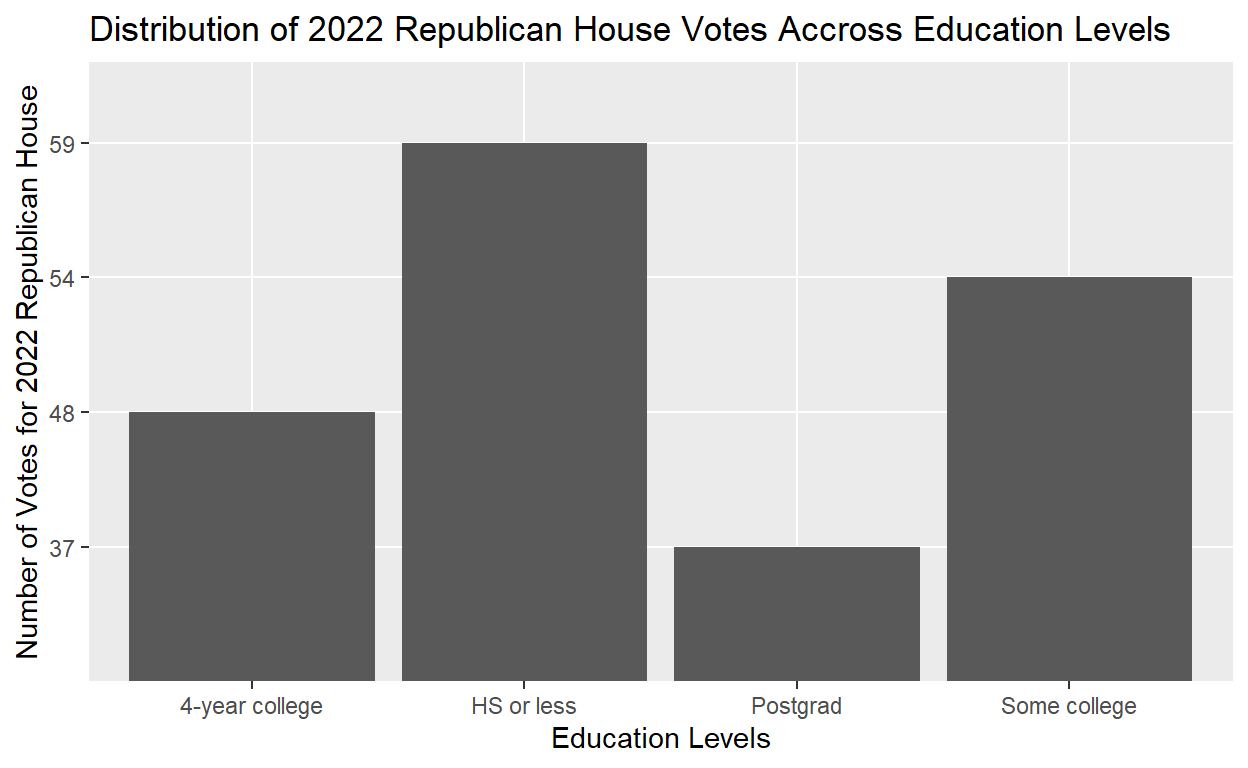
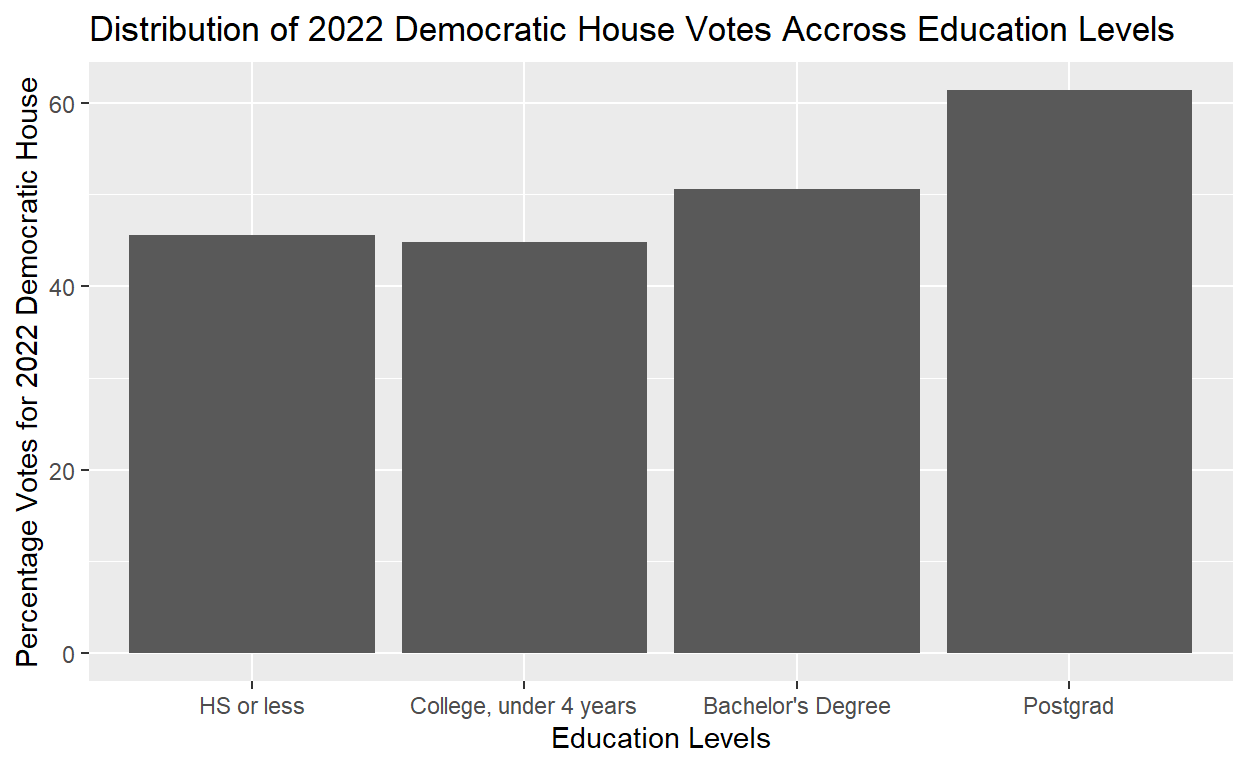
project 1

diff --git a/index.html b/index.html
@@ -1476,14 +1476,18 @@
 </div>
 
 <div class="d-article">
-<h2 id="project-thoughts">Project thoughts</h2>
-<p>I am interested in exploring data related to recent elections and the how the voting trends have changed. I would specifically like to look into how different factors effect voting behaviors. An example of this would be how education plays a role in voting.</p>
-<p>How has education affected voting trends and patterns in recent elections? Based on data from recent elections, it seems that as education gets higher, people tend to vote for the Democratic Party as opposed to the Republican Party. To measure this, we will be analyzing different levels of education in the categories of “HS or less”, “Some College”, “4 year College”, and “Postgrad”. Education has our explanatory variables. Our outcome variable is the percentage towards that party/candidate. We will be looking at how education changes the official results in terms of percentage for Democratic and Republican presidential candidates from past years. The observed pattern from the data points to higher education changing percentages to be higher for Democratic candidates.</p>
-<h2 id="democratic-house-vote">2022 Democratic House Vote</h2>
+<h2 id="introduction">Introduction</h2>
+<p>In this project I have aimed to explore how education has affected voting patterns. The question I worked to answer is: As education increases, are individuals more or less in support of the democratic party. To uncover this, I looked at different demographics and how they affected voting results in the 2022 Democratic House race. My main hypothesis was that as education increases, support for the Democratic Party will increase.</p>
+<p>This research question is important because demographics play a very prominent role in the way that individuals vote and affiliate with different political parties. This question works to uncover a core driver of political behavior: how individual’s backgrounds shape the way that they vote. Looking specifically at education helps explain larger patterns in elections in the way that education can affect how people access and process information. Furthermore, the way we access information has a large impact on our beliefs and party/candidate preferences as well.</p>
+<h2 id="data-section">Data Section</h2>
+<p>To measure the support for the Democratic party among different education levels, I will be taking the data and creating four different conditions. I will categorize each individual into “HS or less”, “College, under 4 years”, “Bachelor’s degree”, and “Postgrad”. Education is the explanatory variable, as each category/level will yield a different outcome of percentage in support for the 2022 Democratic House. The outcome variable is the percentage votes per each education level, reflecting support for the 2022 Democratic House.</p>
+<p>An outcome of higher percentages for each education increase would prove my hypothesis to be correct, while an outcome showing variability or decrease of percentages for each education increase would prove my hypothesis to be incorrect.</p>
 <div class="layout-chunk" data-layout="l-body">
 <div class="sourceCode">
 <pre class="sourceCode r"><code class="sourceCode r"><span><span class='kw'><a href='https://rdrr.io/r/base/library.html'>library</a></span><span class='op'>(</span><span class='va'><a href='https://tidyverse.tidyverse.org'>tidyverse</a></span><span class='op'>)</span></span>
-<span><span class='kw'><a href='https://rdrr.io/r/base/library.html'>library</a></span><span class='op'>(</span><span class='va'><a href='https://dplyr.tidyverse.org'>dplyr</a></span><span class='op'>)</span></span></code></pre>
+<span><span class='kw'><a href='https://rdrr.io/r/base/library.html'>library</a></span><span class='op'>(</span><span class='va'><a href='https://dplyr.tidyverse.org'>dplyr</a></span><span class='op'>)</span></span>
+<span><span class='kw'><a href='https://rdrr.io/r/base/library.html'>library</a></span><span class='op'>(</span><span class='va'><a href='https://readr.tidyverse.org'>readr</a></span><span class='op'>)</span></span>
+<span><span class='kw'><a href='https://rdrr.io/r/base/library.html'>library</a></span><span class='op'>(</span><span class='va'><a href='https://broom.tidymodels.org/'>broom</a></span><span class='op'>)</span></span></code></pre>
 </div>
 </div>
 <div class="layout-chunk" data-layout="l-body">
@@ -1521,8 +1525,43 @@
 10 103519 Postgrad               TRUE        
 # ℹ 8,584 more rows</code></pre>
 </div>
-<p>Here I did some data cleaning to create a clea table that shows different education levels and if they voted for the democratic party or not.</p>
-<h2 id="distribution-of-2022-democratic-house-votes-accross-education-levels">Distribution of 2022 Democratic House Votes Accross Education Levels</h2>
+<p>Here I did some data cleaning to create table that shows individuals under the different education levels, and if they voted in support of the 2022 Democratic House or not. If they voted in support of the Democratic Party they are labeled “TRUE”, if they did not then they are labeled “FALSE”.</p>
+<div class="layout-chunk" data-layout="l-body">
+<div class="sourceCode">
+<pre class="sourceCode r"><code class="sourceCode r"><span><span class='va'>edu_vote</span> <span class='op'>&lt;-</span> <span class='va'>vote_data</span> <span class='op'>|&gt;</span></span>
+<span>  <span class='fu'><a href='https://dplyr.tidyverse.org/reference/group_by.html'>group_by</a></span><span class='op'>(</span><span class='va'>education</span><span class='op'>)</span> <span class='op'>|&gt;</span></span>
+<span>  <span class='fu'><a href='https://dplyr.tidyverse.org/reference/summarise.html'>summarize</a></span><span class='op'>(</span>percentage_dem <span class='op'>=</span> <span class='fu'><a href='https://rdrr.io/r/base/mean.html'>mean</a></span><span class='op'>(</span><span class='va'>congvote_dem</span><span class='op'>)</span> <span class='op'>*</span> <span class='fl'>100</span><span class='op'>)</span> </span>
+<span><span class='fu'>knitr</span><span class='fu'>::</span><span class='fu'><a href='https://rdrr.io/pkg/knitr/man/kable.html'>kable</a></span><span class='op'>(</span><span class='va'>edu_vote</span>, digits <span class='op'>=</span> <span class='fl'>2</span><span class='op'>)</span></span></code></pre>
+</div>
+<table>
+<thead>
+<tr class="header">
+<th style="text-align: left;">education</th>
+<th style="text-align: right;">percentage_dem</th>
+</tr>
+</thead>
+<tbody>
+<tr class="odd">
+<td style="text-align: left;">HS or less</td>
+<td style="text-align: right;">45.54</td>
+</tr>
+<tr class="even">
+<td style="text-align: left;">College, under 4 years</td>
+<td style="text-align: right;">44.87</td>
+</tr>
+<tr class="odd">
+<td style="text-align: left;">Bachelor’s Degree</td>
+<td style="text-align: right;">50.56</td>
+</tr>
+<tr class="even">
+<td style="text-align: left;">Postgrad</td>
+<td style="text-align: right;">61.39</td>
+</tr>
+</tbody>
+</table>
+</div>
+<p>Here I created a clean table showing the average percentage of support for the 2022 Democratic House for each education level.</p>
+<h2 id="results-section">Results Section</h2>
 <div class="layout-chunk" data-layout="l-body">
 <div class="sourceCode">
 <pre class="sourceCode r"><code class="sourceCode r"><span><span class='va'>twentytwo_dem_house</span> <span class='op'>&lt;-</span> <span class='va'>vote_data</span> <span class='op'>|&gt;</span></span>
@@ -1531,43 +1570,80 @@
 <span><span class='fu'><a href='https://ggplot2.tidyverse.org/reference/ggplot.html'>ggplot</a></span><span class='op'>(</span>mapping <span class='op'>=</span> <span class='fu'><a href='https://ggplot2.tidyverse.org/reference/aes.html'>aes</a></span><span class='op'>(</span>x <span class='op'>=</span> <span class='va'>education</span>, y <span class='op'>=</span>  <span class='va'>dem_pct</span><span class='op'>)</span><span class='op'>)</span> <span class='op'>+</span></span>
 <span>  <span class='fu'><a href='https://ggplot2.tidyverse.org/reference/geom_bar.html'>geom_col</a></span><span class='op'>(</span><span class='op'>)</span> <span class='op'>+</span></span>
 <span>  <span class='fu'><a href='https://ggplot2.tidyverse.org/reference/labs.html'>labs</a></span><span class='op'>(</span>x <span class='op'>=</span> <span class='st'>"Education Levels"</span>, y <span class='op'>=</span> <span class='st'>"Percentage Votes for 2022 Democratic House"</span>, title <span class='op'>=</span> <span class='st'>"Distribution of 2022 Democratic House Votes Accross Education Levels"</span><span class='op'>)</span></span>
-<span><span class='fu'><a href='https://rdrr.io/r/base/print.html'>print</a></span><span class='op'>(</span><span class='va'>twentytwo_dem_house</span><span class='op'>)</span></span></code></pre>
+<span><span class='va'>twentytwo_dem_house</span></span></code></pre>
 </div>
-<p><img src="index_files/figure-html5/unnamed-chunk-3-1.png" alt="" width="624" /></p>
+<p><img src="index_files/figure-html5/unnamed-chunk-4-1.png" alt="" width="624" /></p>
 </div>
-<p>Here I plotted the distribution of the percentage that each education level voted democrat in the House Election. The distribution shows that as education gets higher, it seems that there is generally stronger support for the democratic party because the percentage of votes is increasing. However, it seems that college under four years has a slightly lower support for the democratic party than highnschool or less.</p>
-<h2 id="regression">Regression</h2>
+<p>Here I plotted the distribution of the percentage that each education level voted democrat in the House Election. The distribution shows that as education gets higher, it seems that there is generally stronger support for the democratic party because the percentage of votes is increasing. However, it seems that college under four years has a slightly lower support for the democratic party than high school or less.</p>
 <div class="layout-chunk" data-layout="l-body">
 <div class="sourceCode">
-<pre class="sourceCode r"><code class="sourceCode r"><span><span class='fu'><a href='https://rdrr.io/r/stats/lm.html'>lm</a></span><span class='op'>(</span><span class='va'>congvote_dem</span> <span class='op'>~</span> <span class='va'>education</span>, data <span class='op'>=</span> <span class='va'>vote_data</span><span class='op'>)</span> <span class='op'>|&gt;</span> <span class='fu'><a href='https://rdrr.io/r/base/summary.html'>summary</a></span><span class='op'>(</span><span class='op'>)</span></span></code></pre>
+<pre class="sourceCode r"><code class="sourceCode r"><span><span class='va'>fit</span> <span class='op'>&lt;-</span> <span class='fu'><a href='https://rdrr.io/r/stats/lm.html'>lm</a></span><span class='op'>(</span><span class='va'>congvote_dem</span> <span class='op'>~</span> <span class='va'>education</span>, data <span class='op'>=</span> <span class='va'>vote_data</span><span class='op'>)</span> </span>
+<span><span class='va'>fit</span></span></code></pre>
 </div>
 <pre><code>
 Call:
 lm(formula = congvote_dem ~ education, data = vote_data)
 
-Residuals:
-    Min      1Q  Median      3Q     Max 
--0.6139 -0.4554  0.3861  0.4944  0.5513 
-
 Coefficients:
-                                 Estimate Std. Error t value Pr(&gt;|t|)
-(Intercept)                      0.455392   0.013807  32.983  &lt; 2e-16
-educationCollege, under 4 years -0.006692   0.016715  -0.400  0.68889
-educationBachelor&#39;s Degree       0.050245   0.017124   2.934  0.00335
-educationPostgrad                0.158520   0.017474   9.072  &lt; 2e-16
-                                   
-(Intercept)                     ***
-educationCollege, under 4 years    
-educationBachelor&#39;s Degree      ** 
-educationPostgrad               ***
----
-Signif. codes:  0 &#39;***&#39; 0.001 &#39;**&#39; 0.01 &#39;*&#39; 0.05 &#39;.&#39; 0.1 &#39; &#39; 1
-
-Residual standard error: 0.4957 on 8590 degrees of freedom
-Multiple R-squared:  0.01738,   Adjusted R-squared:  0.01703 
-F-statistic: 50.64 on 3 and 8590 DF,  p-value: &lt; 2.2e-16</code></pre>
+                    (Intercept)  educationCollege, under 4 years  
+                       0.455392                        -0.006692  
+     educationBachelor&#39;s Degree                educationPostgrad  
+                       0.050245                         0.158520  </code></pre>
+<div class="sourceCode">
+<pre class="sourceCode r"><code class="sourceCode r"><span><span class='fu'><a href='https://generics.r-lib.org/reference/tidy.html'>tidy</a></span><span class='op'>(</span><span class='va'>fit</span><span class='op'>)</span> <span class='op'>|&gt;</span></span>
+<span>  <span class='fu'>knitr</span><span class='fu'>::</span><span class='fu'><a href='https://rdrr.io/pkg/knitr/man/kable.html'>kable</a></span><span class='op'>(</span>digits <span class='op'>=</span> <span class='fl'>3</span><span class='op'>)</span></span></code></pre>
 </div>
-<p>Here I made a regression that showed education levels and support for the Democratic party. This uses high school or less as the baseline intercept and it seems that support goes down by about .06 at colege under 4 years. Then from there the support increases for both Bachelor’s degree and Postgrad.</p>
+<table style="width:100%;">
+<colgroup>
+<col style="width: 46%" />
+<col style="width: 13%" />
+<col style="width: 14%" />
+<col style="width: 14%" />
+<col style="width: 11%" />
+</colgroup>
+<thead>
+<tr class="header">
+<th style="text-align: left;">term</th>
+<th style="text-align: right;">estimate</th>
+<th style="text-align: right;">std.error</th>
+<th style="text-align: right;">statistic</th>
+<th style="text-align: right;">p.value</th>
+</tr>
+</thead>
+<tbody>
+<tr class="odd">
+<td style="text-align: left;">(Intercept)</td>
+<td style="text-align: right;">0.455</td>
+<td style="text-align: right;">0.014</td>
+<td style="text-align: right;">32.983</td>
+<td style="text-align: right;">0.000</td>
+</tr>
+<tr class="even">
+<td style="text-align: left;">educationCollege, under 4 years</td>
+<td style="text-align: right;">-0.007</td>
+<td style="text-align: right;">0.017</td>
+<td style="text-align: right;">-0.400</td>
+<td style="text-align: right;">0.689</td>
+</tr>
+<tr class="odd">
+<td style="text-align: left;">educationBachelor’s Degree</td>
+<td style="text-align: right;">0.050</td>
+<td style="text-align: right;">0.017</td>
+<td style="text-align: right;">2.934</td>
+<td style="text-align: right;">0.003</td>
+</tr>
+<tr class="even">
+<td style="text-align: left;">educationPostgrad</td>
+<td style="text-align: right;">0.159</td>
+<td style="text-align: right;">0.017</td>
+<td style="text-align: right;">9.072</td>
+<td style="text-align: right;">0.000</td>
+</tr>
+</tbody>
+</table>
+</div>
+<p>Here I made a regression that showed education levels and support for the Democratic party. This uses high school or less as the baseline intercept and it seems that support goes down by about .06 at college under 4 years. Then from there the support increases for both Bachelor’s degree and Postgrad.</p>
+<h2 id="section"></h2>
 <pre><code>```{.r .distill-force-highlighting-css}</code></pre>
 <!--radix_placeholder_article_footer-->
 <!--/radix_placeholder_article_footer-->
